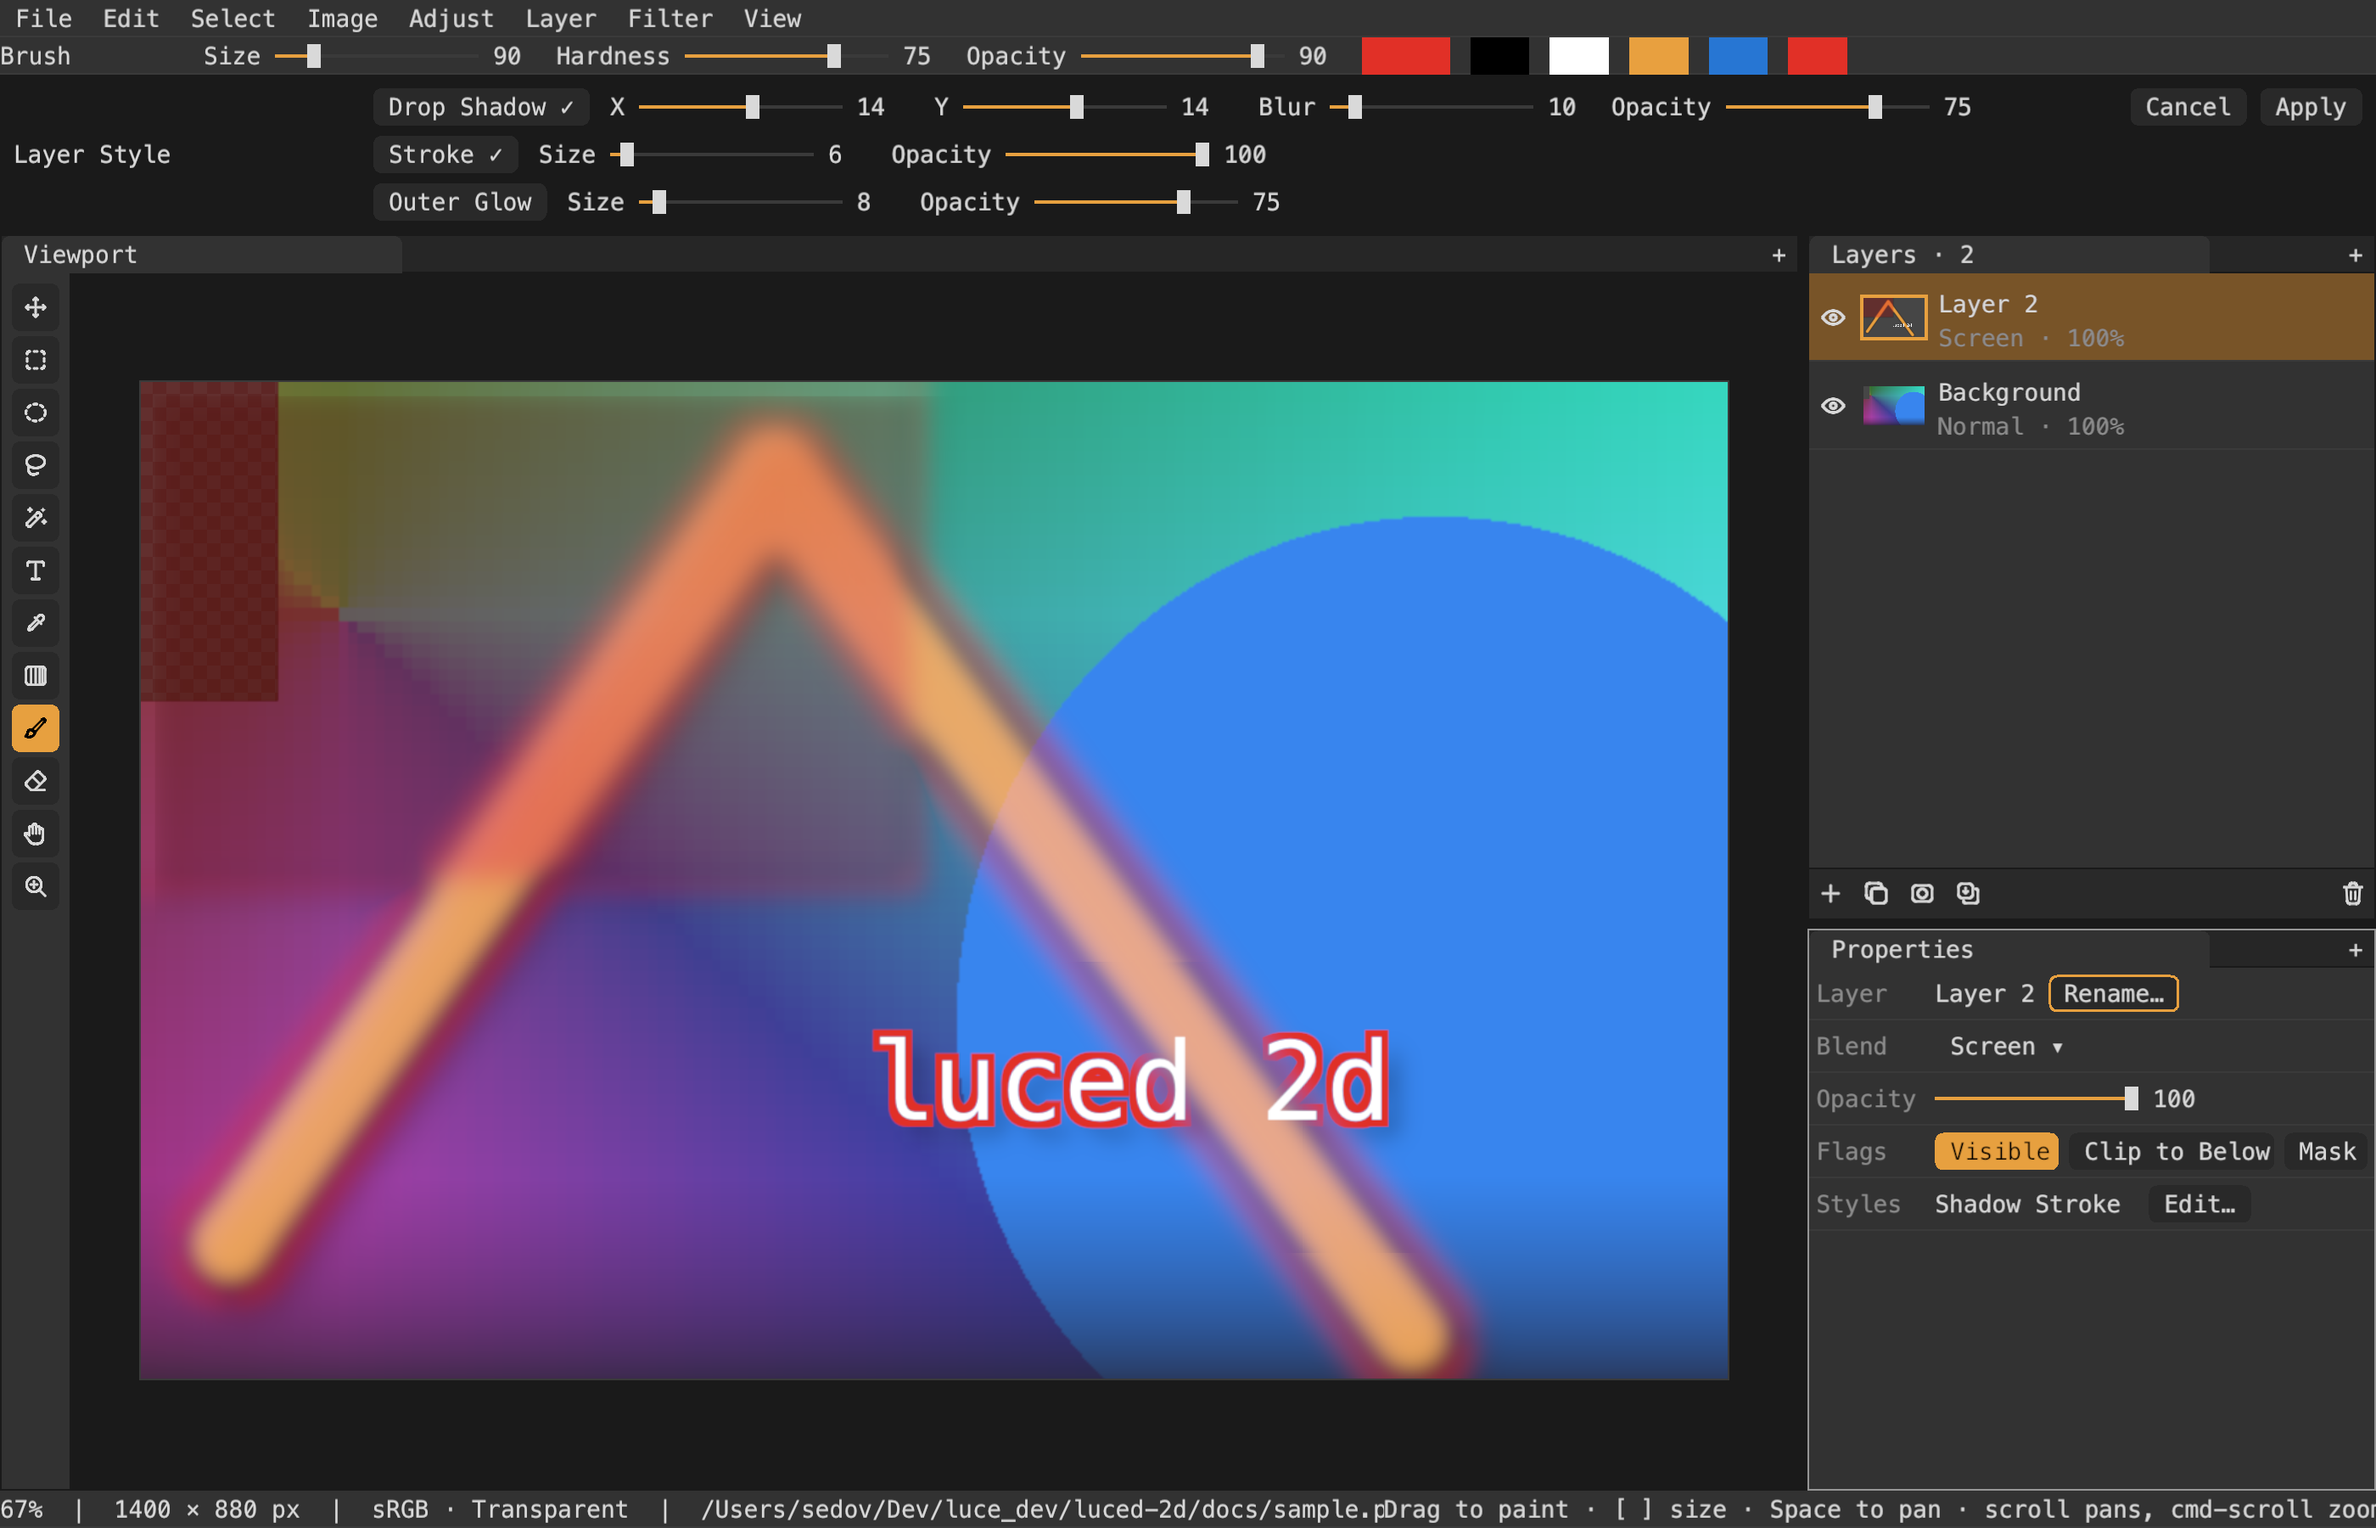
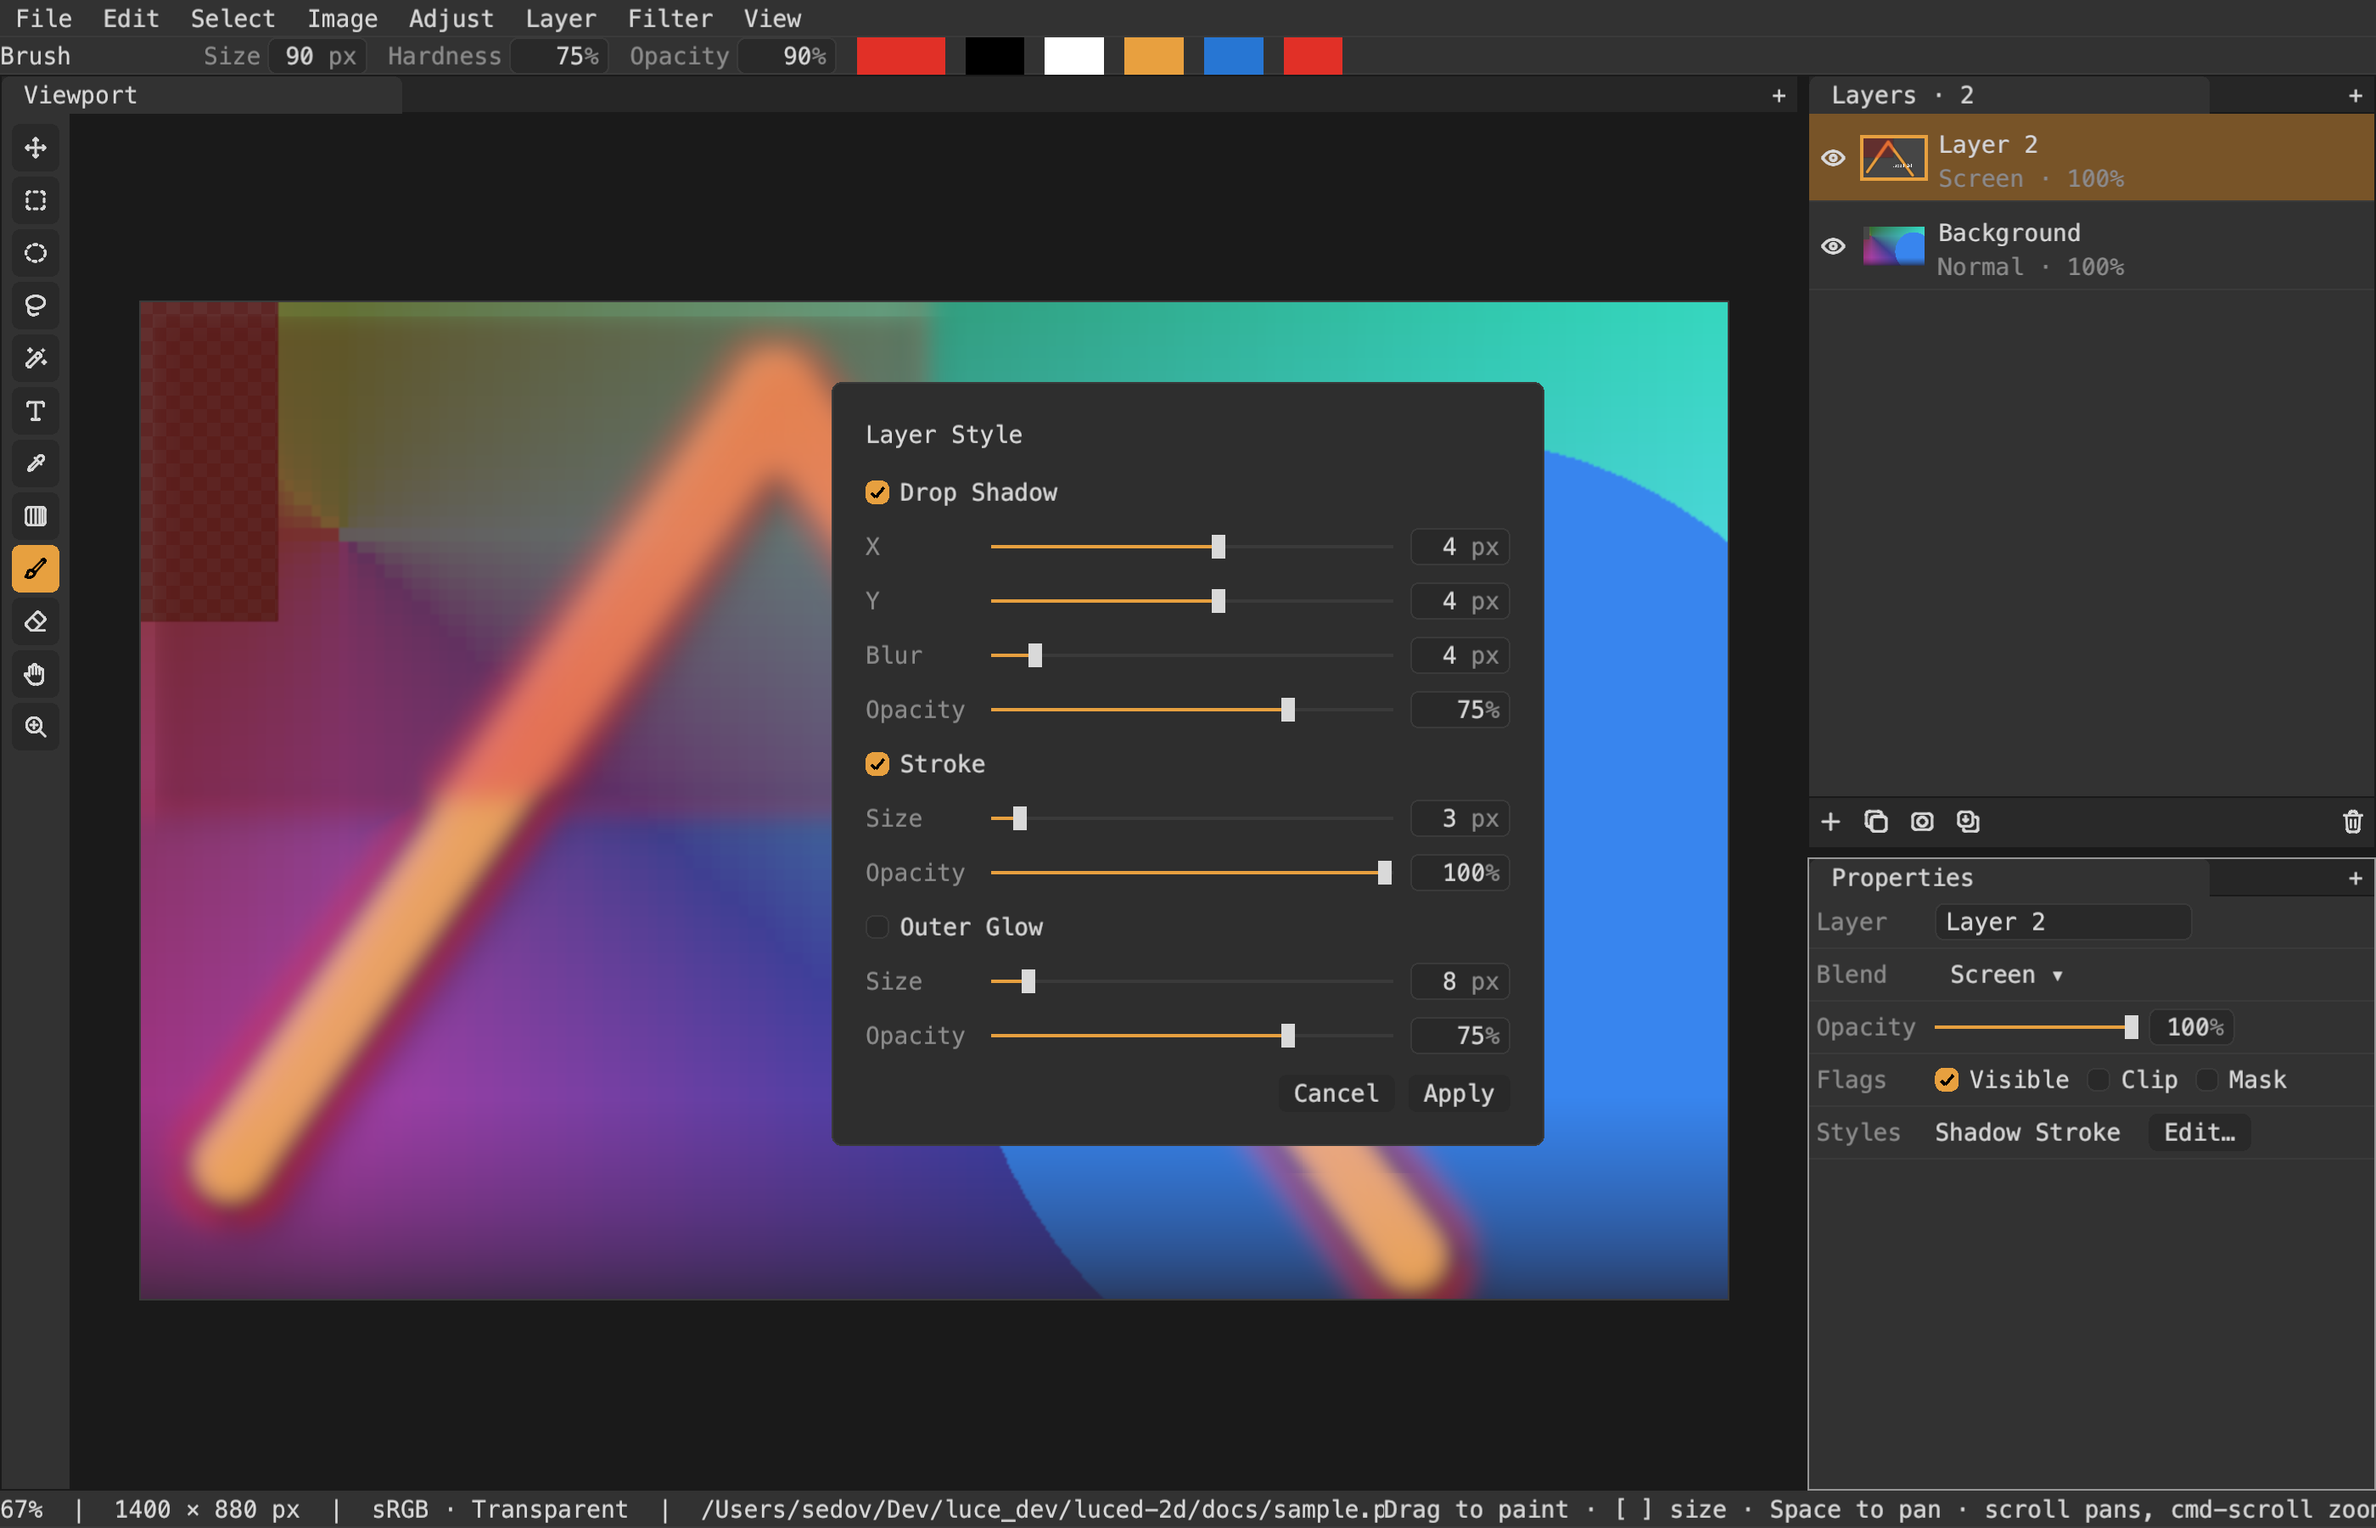
Property editors and a floating adjust dialog
Properties: the layer name is a TextField edited in place, opacity a slider
with a number field, the flags checkboxes. The tool header's brush settings
are scrubbable NumberFields. The adjust bar that spanned the top of the
window is gone: adjustments, blur, free transform and Layer Style open in a
Dialog centred over the canvas, after Compositor's panels — one column of
rows (label, slider, number field with unit), checkbox headings per effect,
Cancel/Apply.

Claude-Session: https://claude.ai/code/session_01KSvf935cywg8wGYHPcyZf9

diff --git a/README.md b/README.md
@@ -75,11 +75,15 @@ python3 tools/preview.py   # macOS: captures a real Metal frame into docs/previe
 - `src/view.luc`: the canvas widget: checkerboard, the document, pan and zoom.
 - `src/actions.luc`: one `Command` per action, as in luced; menus, the tool
   rail and shortcuts present the same instances, enabled by document state.
-- `src/panels.luc`: the window: menu bar, contextual tool header, adjust bar,
-  then a dock of panes after eleusis-layout (see `docs/ELEUSIS_UI.md`): the
-  Viewport with its tool rail, Layers with its actions on a shelf at the
-  bottom, Properties for the selected layer; a status bar that shows the hot
-  control's hint; and the text prompt.
+- `src/panels.luc`: the window: menu bar, contextual tool header (its
+  settings are scrubbable number fields), then a dock of panes after
+  eleusis-layout (see `docs/ELEUSIS_UI.md`): the Viewport with its tool rail,
+  Layers with its actions on a shelf at the bottom, Properties for the
+  selected layer (name field, blend menu, opacity slider and field, flag
+  checkboxes); a status bar that shows the hot control's hint; the text
+  prompt; and the adjust dialog — a floating card centred over the canvas, as
+  Compositor's panels, holding the open adjustment's, blur's, transform's or
+  layer style's rows (label, slider, number field) with Cancel/Apply.
 - `src/layers.luc`: the layer list with thumbnails, masks and clipping.
 - `src/theme.luc`: the look, eleusis-layout's greys and orange.
 - `src/app.luc`: application composition.
